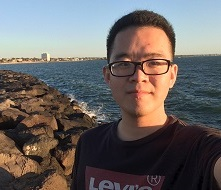
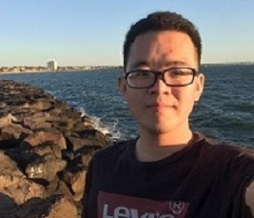
update homepage;

diff --git a/index.html b/index.html
@@ -19,7 +19,7 @@
 		}
 
 		a:visited {
-			color: #531B8D;
+			color: #5f03c2;
 		}
 
 		a:hover {
@@ -37,20 +37,21 @@
 	<div class="col-sm-3 col-md-2 sidebar">
 		<div style="width:500px;height:100px;">
 			<br><br>
-			<h3><b>Liangfeng Cheng</b></h3>
-			<h3><b>程良锋</b></h3>
-			</span><br>
-			<img alt="Liangfeng Cheng" border="0" src="clf.jpg" hspace="0"><br><br>
+			<h2><b>Liangfeng Cheng</b></h2>
+			<h2><b>程良锋</b></h2>
+			</span><br><br>
+			<img alt="Liangfeng Cheng" border="0" src="clf.jpg" hspace="0"><br><br><br>
 			<font size="3">
-				CS Ph.D Student from 2019<br>
+				CS Ph.D Student from 2019<br><br>
+				Institution:<br>
 				<a href="http://stlab.wnlo.hust.edu.cn" target="_blank">Data Storage & Application Lab</a><br>
-				<a href="http://cs.hust.edu.cn" target="_blank">School of Comp. Sci. & Tech.</a><br>
-				<a href="https://hust.edu.cn" target="_blank">Huazhong Univ. of Sci. & Tech.</a>
+				<a href="http://cs.hust.edu.cn" target="_blank">School of computer Sci. & Tech.</a><br>
+				<a href="https://hust.edu.cn" target="_blank">Huazhong University of Sci. & Tech.</a>
 			</font><br>
 			<br>
 			<font size="3">
-				Contact:<br>
-				lenfungcheng[at]hust.edu.cn</font>
+				E-mail:<br>
+				lenfungcheng [at] hust.edu.cn</font>
 		</div>
 	</div>
 
@@ -61,12 +62,11 @@
 			He is now a Ph.D student in Huazhong University of Science and Technology (HUST) advised by <a
 				href="http://yuchonghu.com/" target="_blank">Prof. Yuchong Hu</a><br>
 			He received the B.Eng. degree in Huazhong University of Science and Technology (HUST) in 2017. Then, he took
-			a
-			successive postgraduate
-			and doctoral program in 2019.<br>
+			a successive postgraduate
+			and doctoral program in 2019.<br><br>
 			His research mainly focuses on computer architecture and cloud storage including erasure coding, in-memory
 			key-value stores, data deduplication, etc.<br>
-			<hr style="height:1px;border:none;border-top:1px solid;" />
+			<hr style="height:1px;border:none;border-top:1px solid;" /><br>
 
 			<p align="justify"><b><span class="arial_f">Publications</span></b></p>
 			<ol>
@@ -168,8 +168,8 @@
 						</p>
 					</div>
 				</li>
-			</ol> <br>
-			<hr style="height:1px;border:none;border-top:1px solid;" />
+			</ol>
+			<hr style="height:1px;border:none;border-top:1px solid;" /><br>
 
 			<p align="justify"><b><span class="arial_f">Awards</span></b></p>
 			<ul>

diff --git a/css/bootstrap.css b/css/bootstrap.css
@@ -958,7 +958,7 @@ pre code {
     width: 33.33333333%;
   }
   .col-sm-3 {
-    width: 25%;
+    width: 30%;
   }
   .col-sm-2 {
     width: 16.66666667%;
@@ -1072,7 +1072,7 @@ pre code {
     margin-left: 33.33333333%;
   }
   .col-sm-offset-3 {
-    margin-left: 25%;
+    margin-left: 30%;
   }
   .col-sm-offset-2 {
     margin-left: 16.66666667%;
